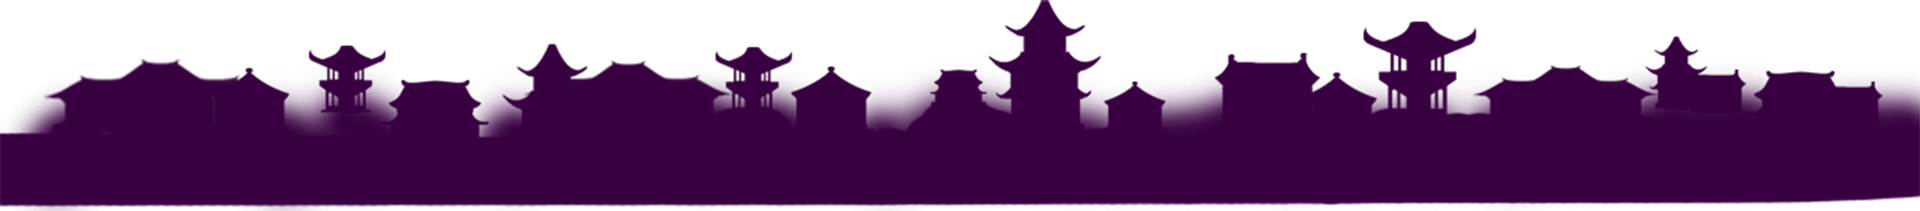
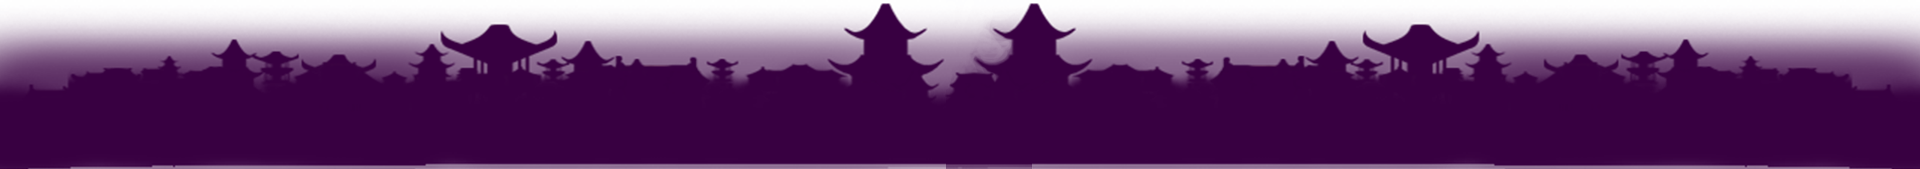
MODIFIED - Background, DELETED - niepotrzebne juz png background

diff --git a/background/bg_para_scroll.go b/background/bg_para_scroll.go
@@ -14,46 +14,6 @@ components {
   }
 }
 embedded_components {
-  id: "light1"
-  type: "sprite"
-  data: "tile_set: \"/background/background_para.atlas\"\n"
-  "default_animation: \"bg_light\"\n"
-  "material: \"/builtins/materials/sprite.material\"\n"
-  "blend_mode: BLEND_MODE_ALPHA\n"
-  ""
-  position {
-    x: 870.0
-    y: 860.0
-    z: -0.1
-  }
-  rotation {
-    x: 0.0
-    y: 0.0
-    z: 0.0
-    w: 1.0
-  }
-}
-embedded_components {
-  id: "light2"
-  type: "sprite"
-  data: "tile_set: \"/background/background_para.atlas\"\n"
-  "default_animation: \"bg_light\"\n"
-  "material: \"/builtins/materials/sprite.material\"\n"
-  "blend_mode: BLEND_MODE_ALPHA\n"
-  ""
-  position {
-    x: 2790.0
-    y: 860.0
-    z: -0.1
-  }
-  rotation {
-    x: 0.0
-    y: 0.0
-    z: 0.0
-    w: 1.0
-  }
-}
-embedded_components {
   id: "sprite1"
   type: "sprite"
   data: "tile_set: \"/background/background_para.atlas\"\n"

diff --git a/background/bg_para_scroll_town.go b/background/bg_para_scroll_town.go
@@ -17,7 +17,7 @@ embedded_components {
   id: "sprite1"
   type: "sprite"
   data: "tile_set: \"/background/background_para.atlas\"\n"
-  "default_animation: \"bg_para_town\"\n"
+  "default_animation: \"bg_para_town_re\"\n"
   "material: \"/builtins/materials/sprite.material\"\n"
   "blend_mode: BLEND_MODE_ALPHA\n"
   ""
@@ -37,12 +37,12 @@ embedded_components {
   id: "sprite4"
   type: "sprite"
   data: "tile_set: \"/background/background_para.atlas\"\n"
-  "default_animation: \"bg_para_town\"\n"
+  "default_animation: \"bg_para_town_re\"\n"
   "material: \"/builtins/materials/sprite.material\"\n"
   "blend_mode: BLEND_MODE_ALPHA\n"
   ""
   position {
-    x: 2879.0
+    x: 2880.0
     y: 540.0
     z: 0.0
   }
